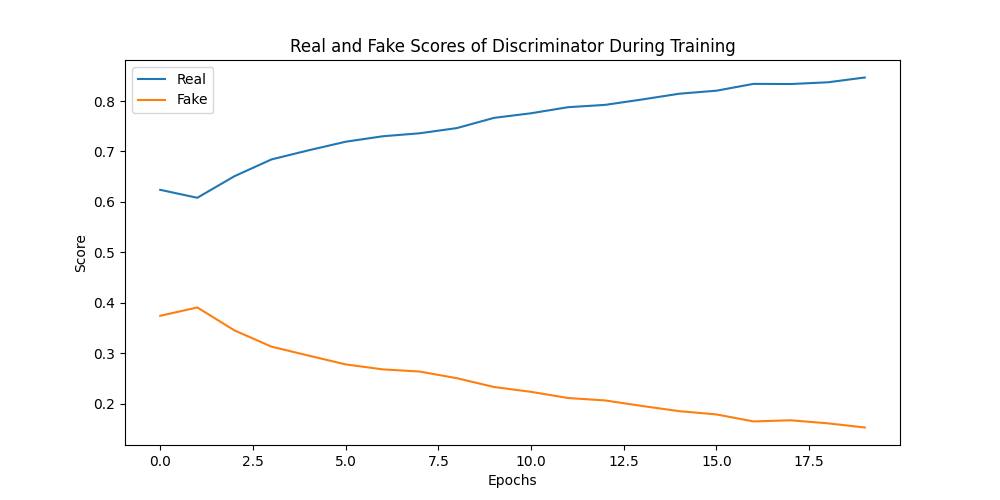
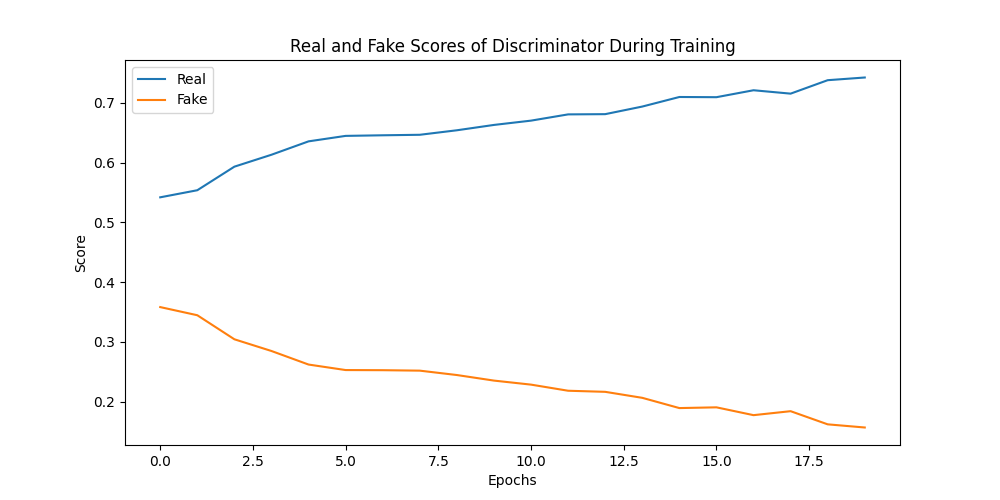
rifatto stesso traning per grafici migliori

diff --git a/neural-networks/train.py b/neural-networks/train.py
@@ -513,7 +513,7 @@ if __name__ == '__main__':
     DEVICE = get_device()
     
     # Hyperparametri di training cambiabili a piacimento
-    SUBSET_DIM = 100000 
+    SUBSET_DIM = 50000 
     EPOCHS = 20
     LEARNING_RATE = 0.0002
     
